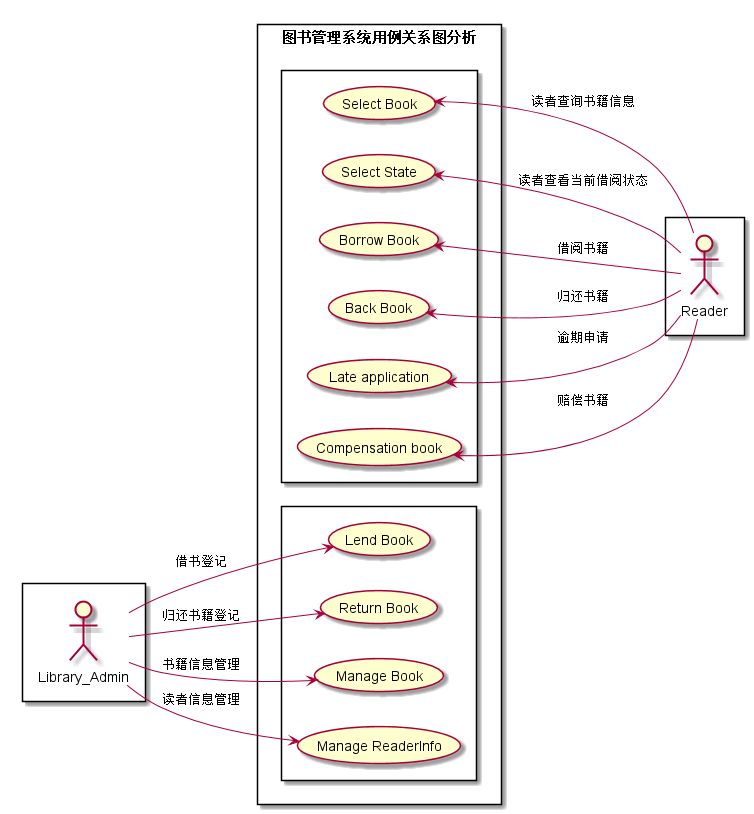
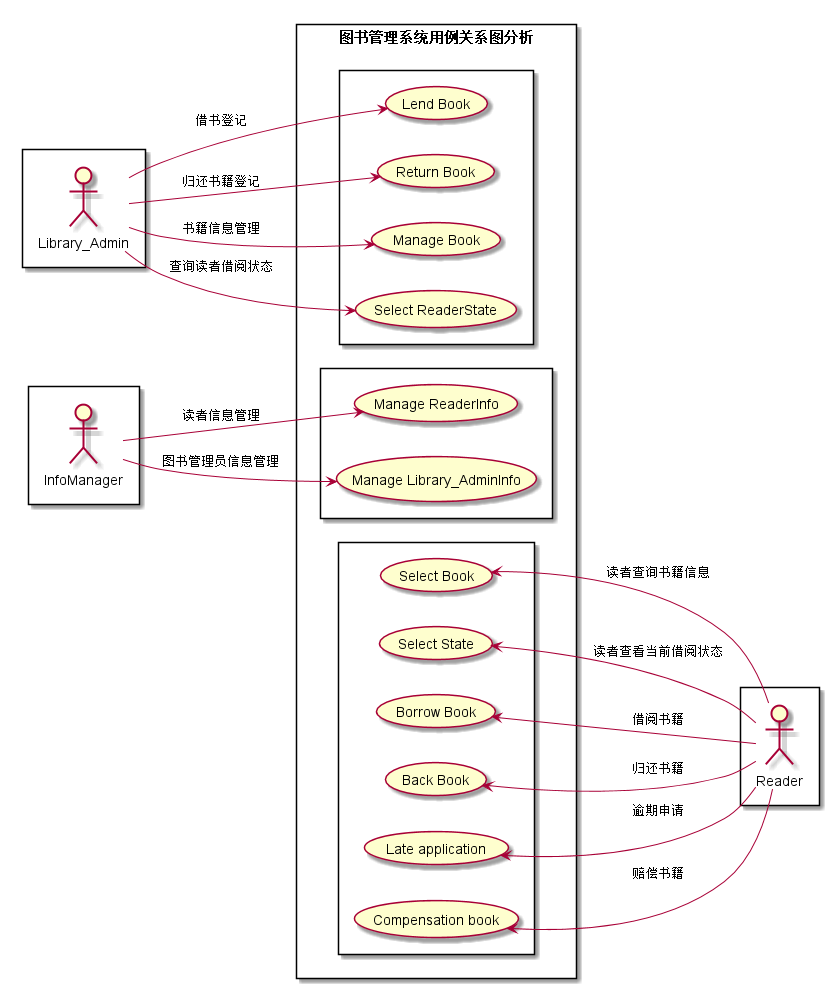
test2 usercase README

diff --git a/test2/README.md b/test2/README.md
@@ -20,6 +20,9 @@ rectangle {
 actor Library_Admin
 }
 rectangle {
+actor InfoManager
+}
+rectangle {
 actor Reader
 }
 rectangle 图书管理系统用例关系图分析{
@@ -27,7 +30,11 @@ rectangle {
 Library_Admin ->(Lend Book):借书登记
 Library_Admin -->(Return Book):归还书籍登记
 Library_Admin -->(Manage Book):书籍信息管理
-Library_Admin -->(Manage ReaderInfo):读者信息管理
+Library_Admin -->(Select ReaderState):查询读者借阅状态
+}
+rectangle {
+InfoManager -->(Manage ReaderInfo):读者信息管理
+InfoManager -->(Manage Library_AdminInfo):图书管理员信息管理
 }
 rectangle {
 (Select Book)<-- Reader:读者查询书籍信息
@@ -38,6 +45,8 @@ rectangle {
 (Compensation book)<--Reader:赔偿书籍
 }
 }
+
+@enduml
 
 @enduml
 ````
